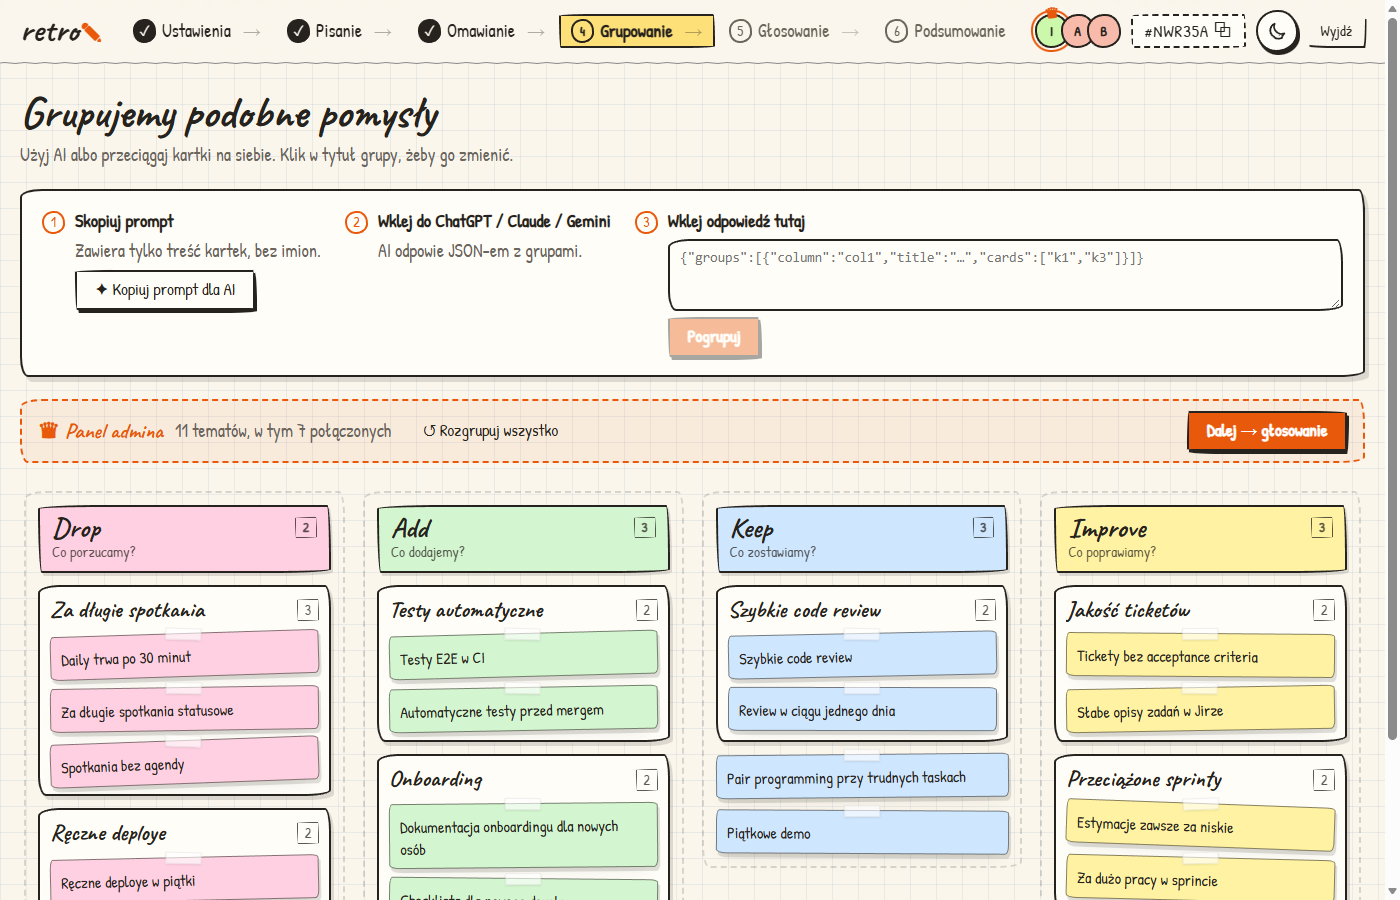
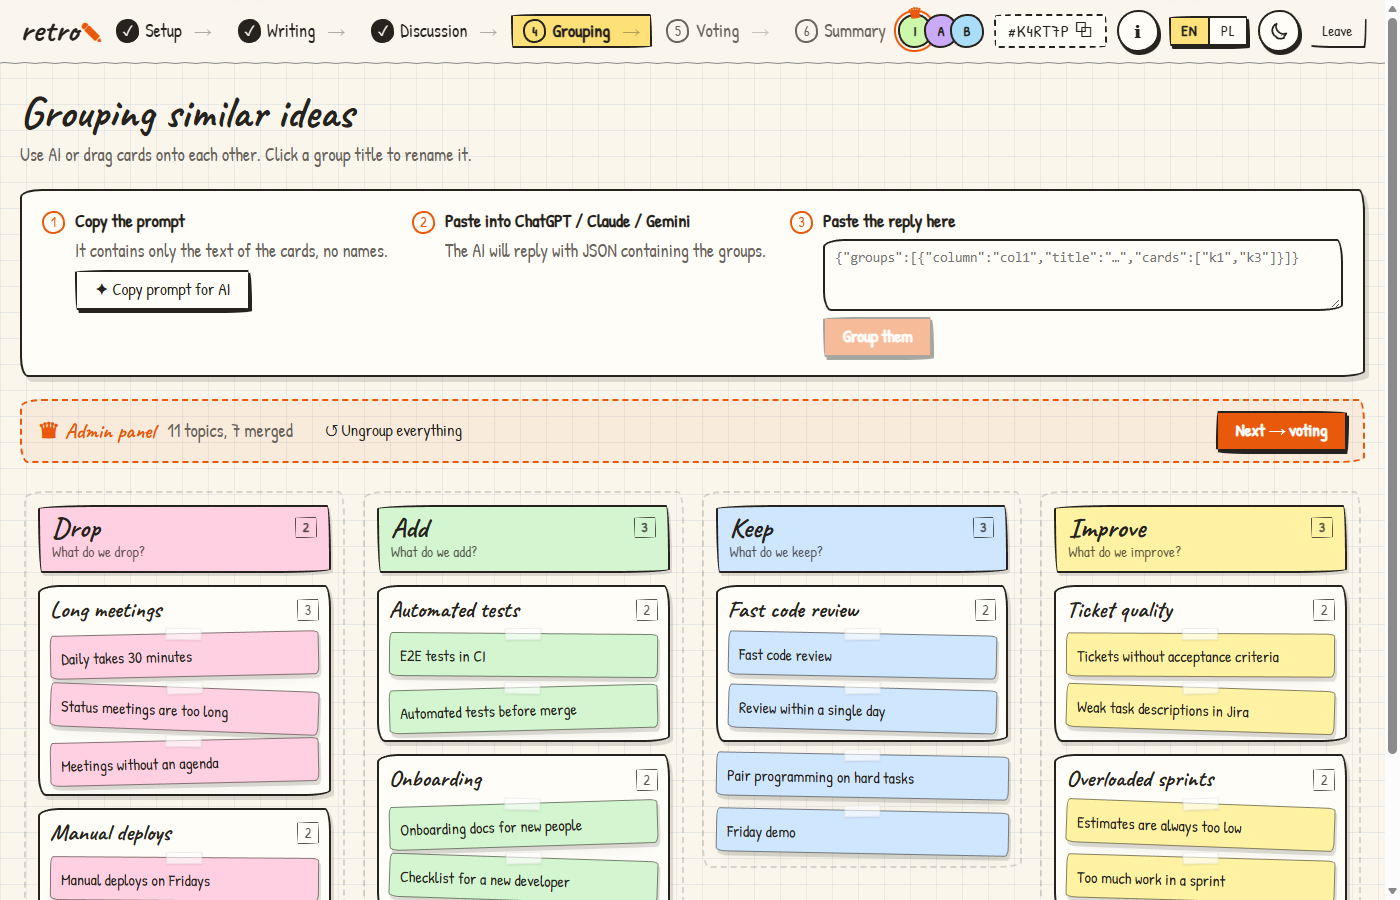
docs: translate README and refresh screenshots
Rewrite the README in English and document language selection,
overrides and what switching does not change. Replace all six
screenshots with the English UI and sample content.

diff --git a/README.md b/README.md
@@ -1,51 +1,67 @@
 # retro ✎
 
-Sketchowa tablica do retrospektyw, która działa **peer-to-peer** (WebRTC). Nie ma backendu: pokój żyje w przeglądarce osoby, która go założyła (admina), a reszta łączy się z nią bezpośrednio. Gdy sieć nie pozwala na połączenie bezpośrednie (np. internet mobilny za CGNAT), ruch idzie przez publiczny broker MQTT, zaszyfrowany kluczem z kodu pokoju. Szczegóły i diagramy: `#/info` w aplikacji.
+A sketchy retrospective board that works **peer-to-peer** (WebRTC). No accounts, no analytics and no custom backend. The room lives in its creator's browser. If a direct connection fails, messages go through a public MQTT broker, encrypted with a key derived from the room code.
 
-**👉 Wypróbuj: https://igorovh.github.io/retro/**
+**👉 Try it: https://igorovh.github.io/retro/**
 
-![Podsumowanie retro](docs/screenshots/7-summary.png)
+The interface supports **English and Polish**, with automatic language selection and an EN / PL switch. See [how it works](https://igorovh.github.io/retro/#/info) for data-flow diagrams and privacy details.
+
+![Retro summary](docs/screenshots/7-summary.png)
 
 ## Flow
 
-1. **Ustawienia**: admin wybiera tablice (Drop/Add/Keep/Improve, Start/Stop/Continue, Mad/Sad/Glad, 4L, Żaglówka albo własne), czas pisania i liczbę głosów. Reszta wchodzi linkiem `…/#/KOD`.
-2. **Pisanie**: startuje timer. Admin może dorzucić lub odjąć czas albo go zapauzować. Każdy widzi tylko swoje kartki, cudze są zakryte.
-3. **Omawianie**: kartki odkrywają się po kolei w dużym widoku (kolumna po kolumnie, osoba po osobie). Admin przełącza je strzałkami.
-4. **Grupowanie**: „Kopiuj prompt dla AI” → wklejasz do ChatGPT/Claude → odpowiedź (JSON) wklejasz z powrotem i kartki układają się w grupy. Można też przeciągać kartki ręcznie.
-5. **Głosowanie**: dot-voting, kilka głosów można dać na jeden temat.
-6. **Podsumowanie**: ranking tematów, eksport do tekstu (kopiuj / `.txt`) i prompt do wygenerowania action items.
+1. **Setup:** the admin picks a template (Drop/Add/Keep/Improve, Went well/Went poorly/Actions, Start/Stop/Continue, Mad/Sad/Glad, 4L or Sailboat), or creates custom columns. Set the writing time and votes per person. Everyone joins through `…/#/CODE`.
+2. **Writing:** the timer starts. The admin can add time, subtract time or pause. Each participant sees only their own cards.
+3. **Discussion:** cards are revealed one at a time, by column and author. The admin moves between cards with arrow keys or the space bar.
+4. **Grouping:** copy the AI prompt, paste it into ChatGPT/Claude/Gemini, then paste the JSON reply back into the app. Or group cards manually by dragging them.
+5. **Voting:** dot voting, with multiple votes allowed on one topic.
+6. **Summary:** ranked topics, text export (clipboard or `.txt`) and a prompt for generating action items.
 
-Tryb jasny (papier w kratkę) i ciemny (tablica kredowa) przełączasz ikoną słońca/księżyca.
+Switch between light mode (graph paper) and dark mode (chalkboard) with the sun/moon button.
 
-## Jak to wygląda
+## Screenshots
 
 | | |
 |---|---|
-| ![Start](docs/screenshots/1-home.png) | ![Pisanie kartek, tryb ciemny](docs/screenshots/3-writing-dark.png) |
-| **Start**: imię, nowy pokój albo dołączenie kodem | **Pisanie**: cudze kartki są zakryte, timer odlicza czas |
-| ![Omawianie](docs/screenshots/4-review.png) | ![Grupowanie z AI](docs/screenshots/5-grouping.png) |
-| **Omawianie**: kartka po kartce na pierwszym planie | **Grupowanie**: odpowiedź AI układa powtarzające się pomysły w grupy |
-| ![Głosowanie, tryb ciemny](docs/screenshots/6-voting-dark.png) | ![Podsumowanie](docs/screenshots/7-summary.png) |
-| **Głosowanie**: dot-voting z podglądem, kto już zagłosował | **Podsumowanie**: ranking i eksport |
+| ![Home](docs/screenshots/1-home.png) | ![Writing cards in dark mode](docs/screenshots/3-writing-dark.png) |
+| **Home:** enter your name, create a room or join with a code | **Writing:** other people's cards are hidden while the timer counts down |
+| ![Discussion](docs/screenshots/4-review.png) | ![Grouping with AI](docs/screenshots/5-grouping.png) |
+| **Discussion:** one card at a time in the spotlight | **Grouping:** an AI reply groups similar ideas |
+| ![Voting in dark mode](docs/screenshots/6-voting-dark.png) | ![Summary](docs/screenshots/7-summary.png) |
+| **Voting:** dot voting with progress per participant | **Summary:** ranked topics and export |
 
-## Uruchomienie lokalnie
+## Local development
+
+Use Node.js 22.18+ or 24+.
 
 ```bash
 npm install
 npm run dev      # http://localhost:5173
-npm run build    # statyczne pliki w dist/
+npm test         # language detection, dictionaries and plural rules
+npm run build    # type-check and build static files in dist/
 ```
 
-`dist/` to czysty statyk (`base: './'`), więc wrzucisz go na GitHub Pages, Netlify, Cloudflare Pages albo dowolny hosting plików. To repo publikuje się na GitHub Pages automatycznie po każdym pushu na `main` (`.github/workflows/deploy.yml`).
+`dist/` contains static files (`base: './'`). Deploy it to GitHub Pages, Netlify, Cloudflare Pages or any static hosting service. This repository deploys to GitHub Pages on every push to `main` through [the deployment workflow](.github/workflows/deploy.yml).
 
-## Jak to działa
+## Languages
 
-- **PeerJS** + darmowy publiczny broker `0.peerjs.com` służą tylko do zestawienia połączenia (signaling). Dane kartek lecą bezpośrednio między przeglądarkami.
-- Topologia gwiazdy: admin trzyma pełny stan i każdemu wysyła przefiltrowany widok, więc ukryte kartki naprawdę nie trafiają do innych przeglądarek przed omawianiem.
-- Stan admina zapisuje się w `localStorage`. Po odświeżeniu strony pokój wraca, a goście łączą się ponownie sami.
-- Jeśli admin zamknie kartę, pokój jest offline do jego powrotu. Ekran łączenia ma opcję „Przywróć pokój jako admin”.
-- Gdy WebRTC się nie zestawi (symetryczny NAT, CGNAT, firewall), gość po ~10 s przechodzi na relay przez publiczny broker MQTT (EMQX lub HiveMQ). Admin nasłuchuje na obu drogach. Wiadomości są szyfrowane AES-GCM kluczem wyprowadzonym z kodu pokoju (PBKDF2), więc broker widzi tylko szyfrogram. `?relay=1` w adresie wymusza relay (do testów).
+- Polish is selected if any preferred browser language is Polish or the browser's time zone is `Europe/Warsaw`. Otherwise, the app uses English. This is a local hint, not a location check: no IP lookup or geolocation permission is needed.
+- The EN / PL switch remembers your choice in `localStorage`. Each participant can use their own interface language, even within the same room.
+- `?lang=en` and `?lang=pl` override automatic selection for testing. Using the switch removes that override and saves your choice. Invite links do not pass the language override to guests.
+- AI prompts, text exports, connection messages and the information page follow your interface language.
+- Column titles and hints are stored as room content in the language used when the admin selects a template. Switching the interface language does not rewrite columns, cards or group titles.
+- Translations live in [`src/i18n/en.ts`](src/i18n/en.ts) and [`src/i18n/pl.ts`](src/i18n/pl.ts). TypeScript checks the keys. Tests check placeholder consistency, language detection and plural forms.
 
-## Licencja
+## How it works
+
+- **PeerJS** and the public server `0.peerjs.com` handle signaling. Once connected, browsers exchange room data directly over encrypted WebRTC.
+- The admin holds the full state and sends a filtered view to each participant. Unrevealed card text is not sent to other guests, but it is held by the admin's browser.
+- The admin's browser saves the room in `localStorage`. Refreshing restores it, and guests reconnect. Saved rooms older than 14 days since their last update are removed when the app starts.
+- If the admin closes the tab, the room stays offline until they return. The connection screen offers **Restore room as admin** when that browser has a saved copy.
+- If WebRTC fails (symmetric NAT, CGNAT or a firewall), the guest falls back to a public MQTT broker (EMQX or HiveMQ). An ICE connection timeout triggers fallback after about 10 seconds. The admin listens on both transports. Relay messages use AES-GCM with a key derived from the room code through PBKDF2. Anyone with the code can join, so keep it private.
+- Public signaling and relay services are external dependencies, not guaranteed infrastructure. Relay ports 8084 and 8884 may still be blocked by restrictive networks. `?relay=1` forces the relay for testing.
+- AI grouping is optional. Nothing is sent to an AI automatically: you choose whether and where to paste the prompt.
+
+## License
 
 [MIT](LICENSE)
